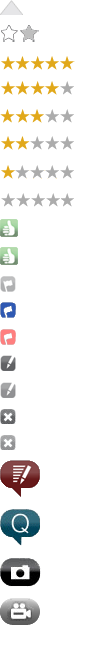
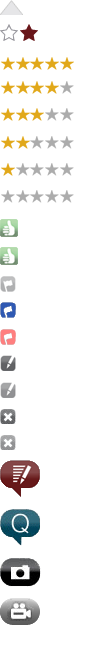
Working on the stars

diff --git a/assets/css/jquery.ui.stars.css b/assets/css/jquery.ui.stars.css
@@ -23,13 +23,13 @@
   width: 18px;
   height: 17px;
   display: block;
-  background: url(../img/stars.png) top left no-repeat; 
+  background: url(../img/pdp.png) 0 -24px no-repeat; 
 }
 .ui-stars-star a {
-  background-position: 0 0;
+  background-position: 0 -24px;
 }
 .ui-stars-star-on a,.ui-stars-star-hover a  {
-  background-position: -20px 0;
+  background-position: -20px -24px;
 }
 
 .ui-stars-star-disabled,
